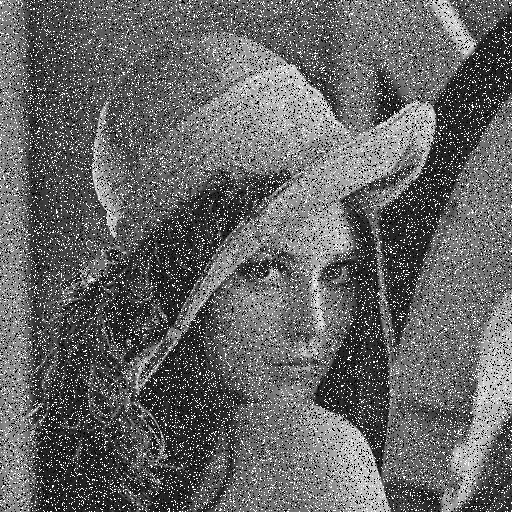
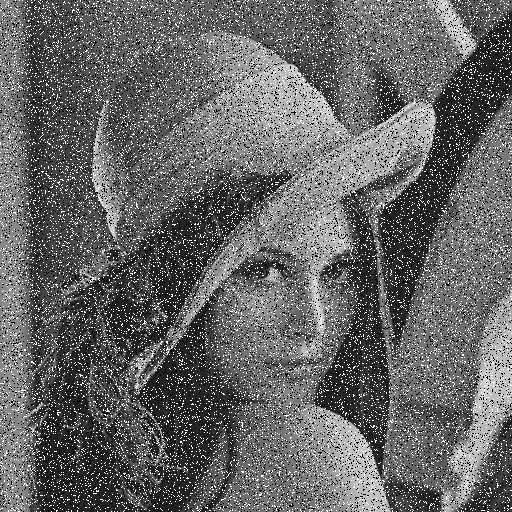
bug correction

diff --git a/smoth/smoothfilters.m b/smoth/smoothfilters.m
@@ -81,12 +81,7 @@ imwrite(imagem, strcat(original,'_gray','.png'));
 %%%%%%%%%%%%%%%%%%%%%%%%%%%%%%%%%%%%%%%%%%%%%%%%%%%%%%%%%%%%%%%%%%%%%%%%%%%
 %%%%%%%%%%%%%%%%%%%%   Escrita da Imagem com Ruído    %%%%%%%%%%%%%%%%%%%%%
 %%%%%%%%%%%%%%%%%%%%%%%%%%%%%%%%%%%%%%%%%%%%%%%%%%%%%%%%%%%%%%%%%%%%%%%%%%%
-if(strcmp(ruido,'salt & pepper'))
-    output = strcat(original,'_',ruido,'_',num2str(paramRuido),'.png');
-else
-    output = strcat(original,'_',ruido,'_',num2str(paramRuido)','.png');
-end
-
+output = strcat(original,'_',ruido,'_',num2str(paramRuido),'.png');
 imwrite(noise,output);
 
 %%%%%%%%%%%%%%%%%%%%%%%%%%%%%%%%%%%%%%%%%%%%%%%%%%%%%%%%%%%%%%%%%%%%%%%%%%%

diff --git a/smoth/main_smoothfilters.m b/smoth/main_smoothfilters.m
@@ -38,7 +38,7 @@ switch ruido
             end
         end
     case 'gaussian'
-        gauss=randn(size(imagem)).*paramRuido;
+        gauss=randn(size(imagem)).*(paramRuido*256);
         noise=uint8(mat2gray(double(imagem)+gauss).*256);
     otherwise
         error(strcat('Ruído inválido. Opções: '),('salt & pepper, gaussian'));
